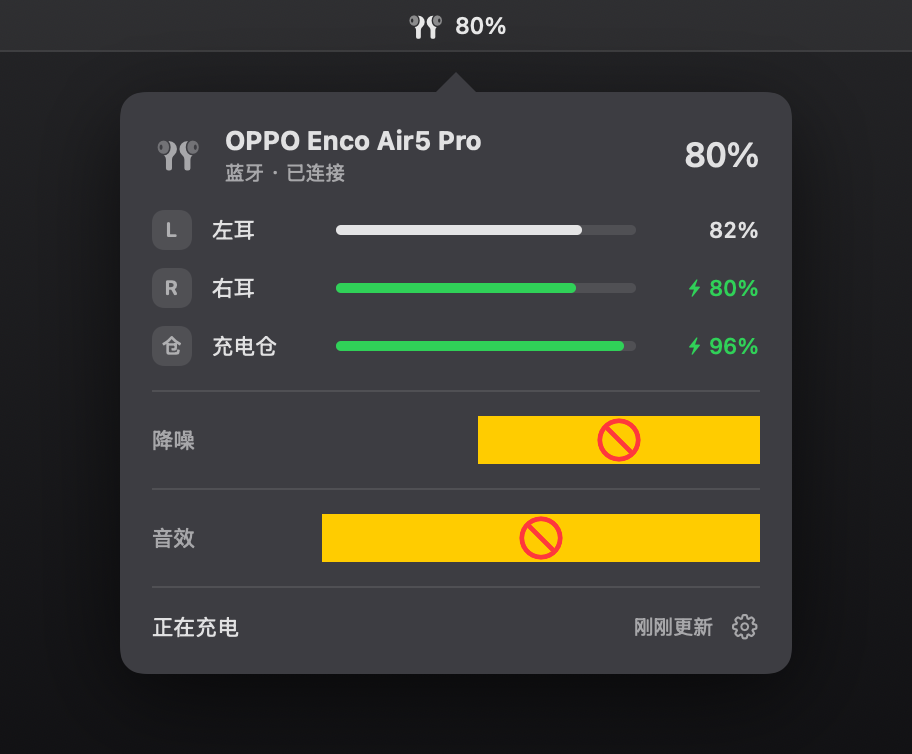
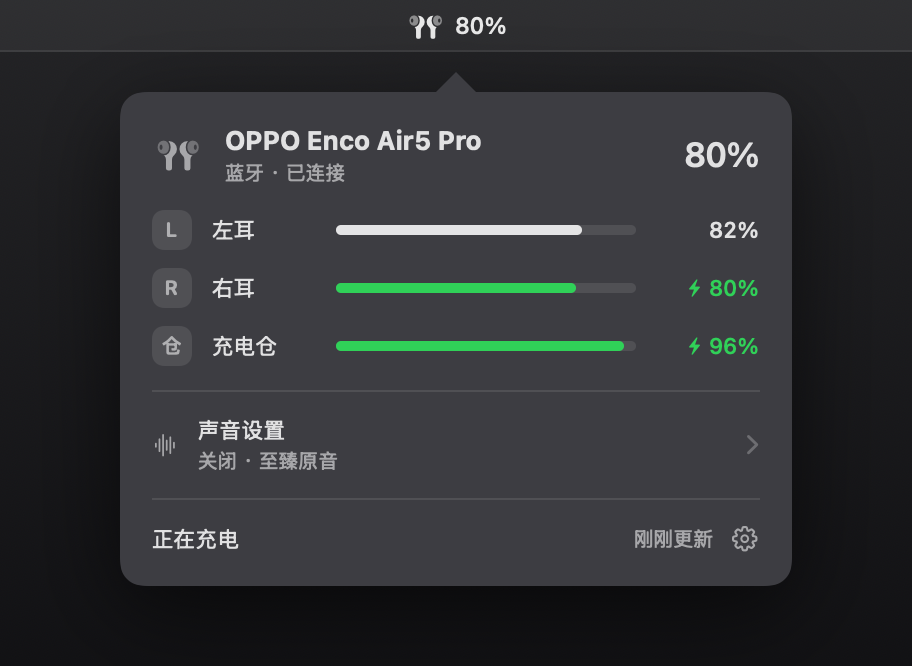
feat: 声音设置渐进式披露——默认折叠只显摘要，点击展开详细控制

diff --git a/EncoBattery.swift b/EncoBattery.swift
@@ -446,6 +446,7 @@ private struct SegmentedRow<Value: Hashable>: View {
 private struct BatteryPopover: View {
     @ObservedObject var model: BatteryModel
     @Environment(\.accessibilityReduceMotion) private var reduceMotion
+    @State private var soundExpanded = ProcessInfo.processInfo.environment["EB_EXPAND"] == "1"
     var onSetNoise: ((NoiseMode, ANCLevel?) -> Void)? = nil
     var onSetEQ: ((EQPreset) -> Void)? = nil
     var onOpenSettings: (() -> Void)? = nil
@@ -468,9 +469,7 @@ private struct BatteryPopover: View {
                 LevelRow(badge: "仓", title: "充电仓", level: model.caseLevel, charging: model.caseCharging)
             }
             Divider()
-            noiseSection
-            Divider()
-            eqSection
+            soundSection
             Divider()
             statusRow
             if let error = model.lastError {
@@ -509,6 +508,71 @@ private struct BatteryPopover: View {
                 .foregroundStyle(model.online ? Color.primary : Color.secondary)
                 .accessibilityLabel("整体电量 \(model.online ? model.percentage : "未知")")
         }
+    }
+
+    /// 「声音设置」入口行：默认折叠只显示摘要，点击展开详细控制。
+    private var soundSection: some View {
+        VStack(spacing: 10) {
+            Button {
+                withAnimation(reduceMotion ? nil : .easeInOut(duration: 0.15)) {
+                    soundExpanded.toggle()
+                }
+            } label: {
+                HStack(spacing: 10) {
+                    Image(systemName: "waveform")
+                        .font(.subheadline)
+                        .foregroundStyle(.secondary)
+                        .accessibilityHidden(true)
+
+                    VStack(alignment: .leading, spacing: 2) {
+                        Text("声音设置")
+                            .font(.subheadline)
+                        Text(soundSummary)
+                            .font(.caption)
+                            .foregroundStyle(.secondary)
+                    }
+
+                    Spacer(minLength: 8)
+
+                    if model.pendingNoise || model.pendingEQ {
+                        ProgressView().controlSize(.mini)
+                    }
+
+                    Image(systemName: "chevron.right")
+                        .font(.system(size: 11, weight: .semibold))
+                        .foregroundStyle(.tertiary)
+                        .rotationEffect(.degrees(soundExpanded ? 90 : 0))
+                        .accessibilityHidden(true)
+                }
+                .contentShape(Rectangle())
+            }
+            .buttonStyle(.plain)
+            .accessibilityLabel("声音设置，\(soundSummary)")
+            .accessibilityAddTraits(soundExpanded ? [] : .isButton)
+            .accessibilityHint(soundExpanded ? "折叠" : "展开")
+
+            if soundExpanded {
+                VStack(spacing: 10) {
+                    noiseSection
+                    eqSection
+                }
+                .transition(.opacity)
+            }
+        }
+        .animation(reduceMotion ? nil : .easeInOut(duration: 0.15), value: soundExpanded)
+    }
+
+    private var soundSummary: String {
+        let noise: String
+        switch model.noiseMode {
+        case .noise:
+            noise = "降噪" + (model.noiseLevel.map { "·\($0.label)" } ?? "")
+        case .some(let mode):
+            noise = mode.label
+        case .none:
+            noise = "未知"
+        }
+        return "\(noise) · \(model.eq.map { $0.label } ?? "未知")"
     }
 
     private var noiseSection: some View {
